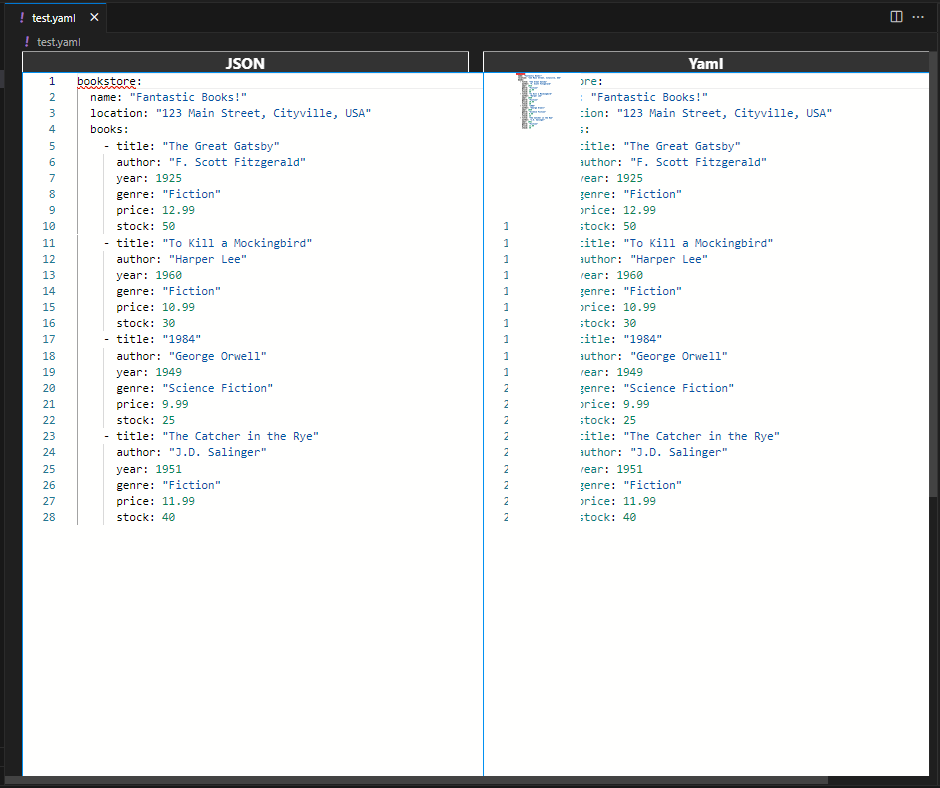
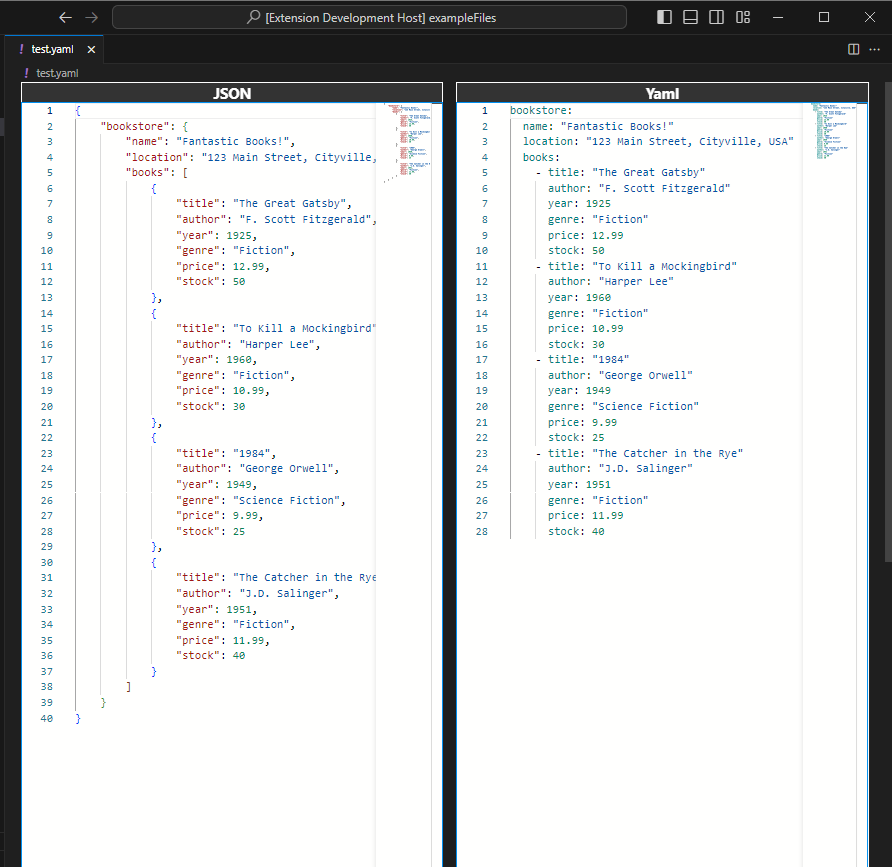
Disabled all the testing buttons and updated the demo image

diff --git a/src/yaml-and-json.webview.html.ts b/src/yaml-and-json.webview.html.ts
@@ -19,9 +19,9 @@ export function buildWebviewHtml(
 		<title>Yaml And Json</title>
 	</head>
 	<body>
-		<div class="debug-row">
+		<!--<div class="debug-row">
 			<button id="test-btn-1">Roundtrip Convert</button>
-		</div>
+		</div>-->
 	
 		<div class="languages__row">
 			<div class="language__column">
@@ -32,8 +32,8 @@ export function buildWebviewHtml(
 			<div class="language__column">
 				<div class="language__header">
 					<span>Yaml</span>
-					<label><input type="radio" name="yaml-view" value="current">Current</label>
-					<label><input type="radio" name="yaml-view" value="original">Original</label>
+					<!--<label><input type="radio" name="yaml-view" value="current">Current</label>
+					<label><input type="radio" name="yaml-view" value="original">Original</label>-->
 				</div>
 				<div class="language__editor" id="yaml__editor"></div>
 			</div>

diff --git a/src/yaml-and-json.webview.css b/src/yaml-and-json.webview.css
@@ -11,9 +11,9 @@
     flex-direction: row;
     gap: 16px;
     
-    /* height: 100vh; */
+    height: 100vh;
     /* stand-in value to be used whilst the debug row is shown */
-    height: calc(100vh - 30px);
+    /*height: calc(100vh - 30px);*/
 }
 
 .language__column {

diff --git a/src/yaml-and-json.webview.js b/src/yaml-and-json.webview.js
@@ -224,5 +224,5 @@
             });
         });
     }
-    setupTestButton();
+    //setupTestButton();
 })();
